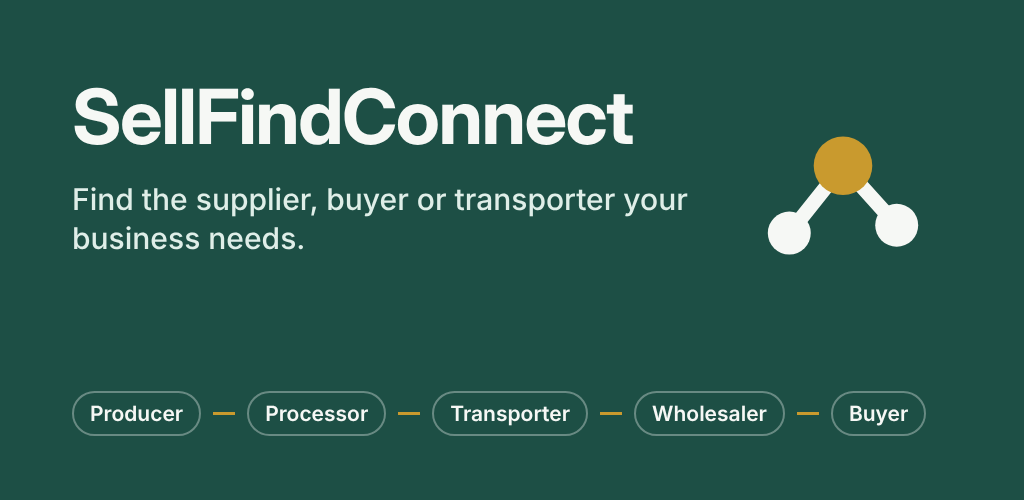
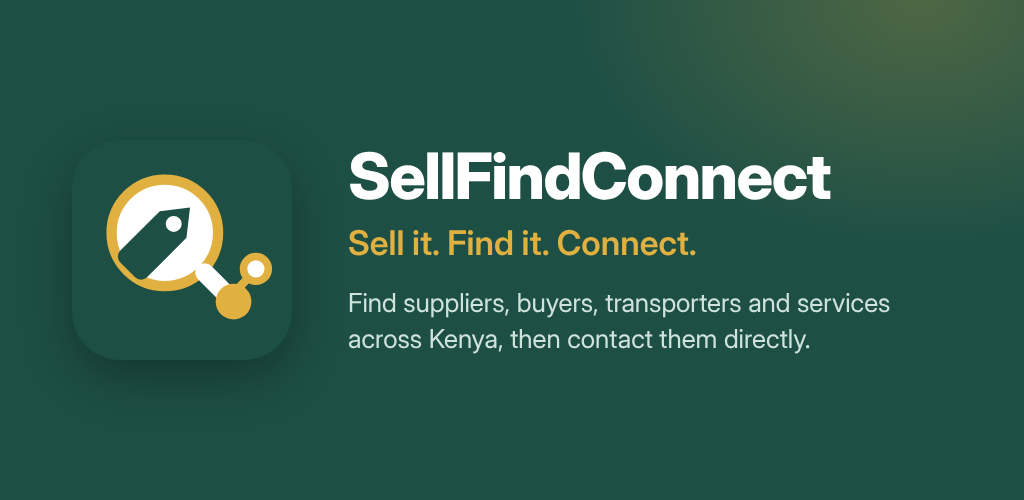
Store images in the new look (#89)
New feature graphic and three phone screenshots taken from the live site
(11/11/26), replacing the old-look images; listing doc updated.

Claude-Session: https://claude.ai/code/session_01FYCRea5zXTHMP7viBhu81A

diff --git a/docs/PLAY-STORE-LISTING.md b/docs/PLAY-STORE-LISTING.md
@@ -68,9 +68,9 @@ which is not built yet (see `docs/PLAY_STORE.md`).
 
 | Asset | File |
 | --- | --- |
-| App icon 512×512 | `docs/store-assets/app-icon-512.png` |
+| App icon 512×512 (new mark, 11/11/26) | `docs/store-assets/app-icon-512.png` |
 | Feature graphic 1024×500 | `docs/store-assets/feature-graphic-1024x500.png` |
-| Phone screenshots 1080×1920 (9:16) — uploaded 15/10/26 | `docs/store-assets/screenshot-1-home.png`, `screenshot-2-results.png`, `screenshot-3-signup.png` |
+| Phone screenshots 1080×1920 (9:16) — new look, put in the draft listing 11/11/26 | `docs/store-assets/screenshot-1-search.png`, `screenshot-2-trust.png`, `screenshot-3-start.png` |
 
 Play rejects screenshots that are not 16:9 or 9:16.
 
